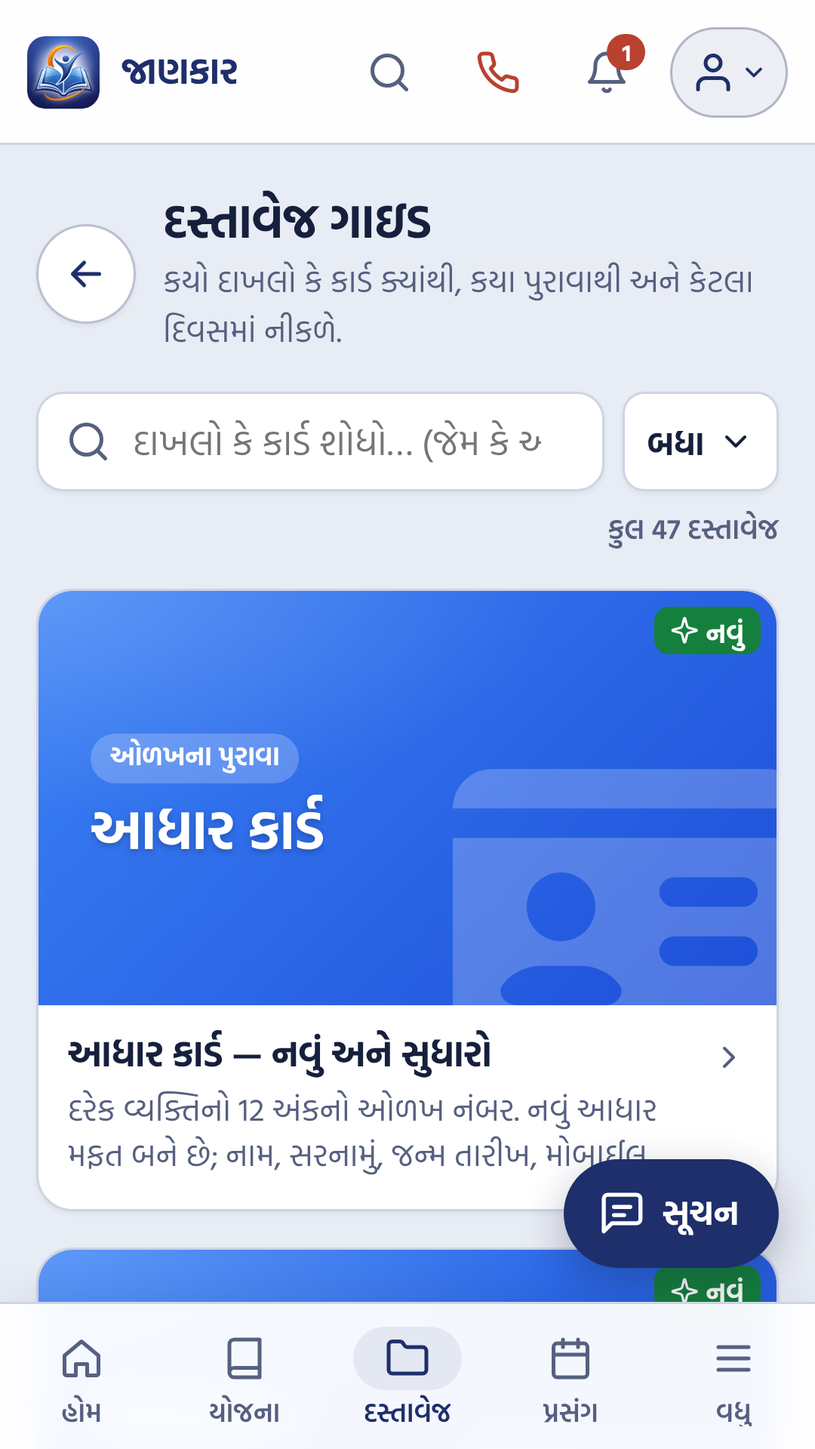
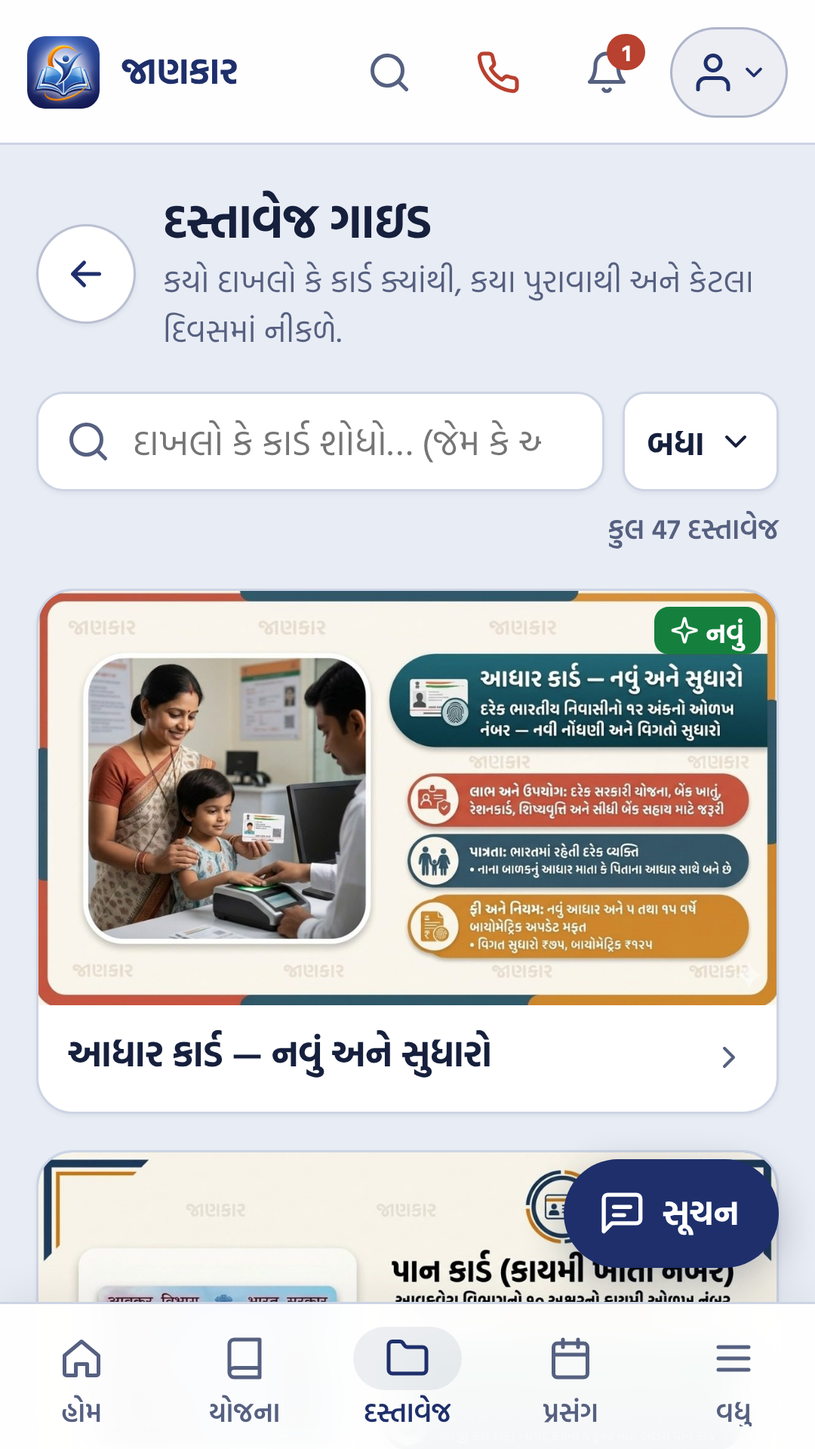
v0.16.0: remove WhatsApp number, plain WhatsApp text on desktop, name-only cards, new event page, store shots with photos
Claude-Session: https://claude.ai/code/session_01DUfmrChPFDEDRX9s3i5F71

diff --git a/privacy.html b/privacy.html
@@ -28,7 +28,7 @@
 </header>
 <main>
 <nav class="crumb" aria-label="તમે અહીં છો"><a href="/">જાણકાર</a> › <span>ગોપનીયતા નીતિ</span></nav><h1>ગોપનીયતા નીતિ</h1><p class="lead">અમલ તારીખ: 25/11/26</p>
-<article class="box info"><section><h2>ટૂંકમાં</h2><ul><li>તમારી પ્રોફાઇલ, સેવ કરેલું અને ✓ ચેકલિસ્ટ ફક્ત તમારા ફોનમાં રહે છે. અમારા સર્વર પર મોકલાતું નથી.</li><li>અમે આધાર નંબર, બેંક વિગત, OTP કે પાસવર્ડ ક્યારેય માંગતા નથી.</li><li>તમે જાતે &quot;સંપર્ક અને સૂચન&quot; માં મોકલો ત્યારે એ લખાણ, અને તમે લખો તો નામ અને મોબાઇલ નંબર, અમને મળે છે. એપમાં ભૂલ આવે તો તેની ટેકનિકલ નોંધ આપોઆપ આવે છે (નીચે વિગત).</li><li>જાહેરાત નથી. કેટલા લોકો કયું પેજ જુએ છે તેની ગણતરી Google Analytics થી થાય છે (નીચે વિગત). તમારી માહિતી કોઈને વેચતા નથી.</li></ul></section><section><h2>ફોનમાં શું સચવાય છે</h2><ul><li>પ્રોફાઇલમાં તમે જાતે ભરો તે: વર્ગ (જેમ કે ખેડૂત, વિદ્યાર્થી), ઉંમર, જાતિ, જિલ્લો, તાલુકો, વ્યવસાય અને આવક. બધું વૈકલ્પિક છે.</li><li>&quot;તમારા માટે યોજના શોધો&quot; ના જવાબ: તમે કોણ છો (વર્ગ), શું કરો છો, જાતિ, આવક, લિંગ, ગામ કે શહેર, BPL. બધા વૈકલ્પિક; પ્રોફાઇલ સાથે ફક્ત ફોનમાં, ક્યાંય મોકલાતા નથી.</li><li>સેવ કરેલાં કાર્ડ, પુરાવાનું ✓ ચેકલિસ્ટ, જોયેલાં કાર્ડ.</li><li>અક્ષરનું કદ, દેખાવ (લાઇટ / ડાર્ક) અને કયું વોટ્સએપ ખોલવું.</li></ul><p>આ બધું ફક્ત તમને લાગુ પડતી યોજના બતાવવા માટે ફોનમાં જ વપરાય છે.</p></section><section><h2>ઇન્ટરનેટ</h2><p>એપ યોજનાની માહિતી અમારી વેબસાઇટ પરથી અને ફોટા અમારી ફોટા સાચવવાની સેવા પરથી લાવે છે. દરેક વેબસાઇટની જેમ, સર્વર પર સામાન્ય ટેકનિકલ નોંધ (જેમ કે IP સરનામું અને સમય) થોડા સમય માટે રહી શકે છે. તેનો ઉપયોગ ફક્ત સેવા ચાલુ રાખવા અને સુરક્ષા માટે થાય છે.</p></section><section><h2>વપરાશની ગણતરી (Google Analytics)</h2><ul><li>શું જાય: કયું પેજ ખૂલ્યું (જેમ કે &quot;યોજના ગાઇડ&quot;), ક્યારે, ફોન / કમ્પ્યુટરનો પ્રકાર, બ્રાઉઝર, અંદાજે રાજ્ય / શહેર અને ક્યાંથી આવ્યા (જેમ કે વોટ્સએપ લિંક).</li><li>શું નથી જતું: નામ, મોબાઇલ નંબર, પ્રોફાઇલ, &quot;યોજના શોધો&quot; ના જવાબ, શોધમાં લખેલું કે સેવ કરેલું.</li><li>Google ફોનમાં એક કૂકી રાખે છે (એ જ ફોન ફરી આવ્યો તે ગણવા). જાહેરાત માટે વપરાતી Google ની સુવિધાઓ અમે બંધ રાખી છે.</li><li>શા માટે: કયાં પેજ કામનાં છે અને ક્યાં સુધારો જોઈએ તે જાણવા. Google ની નીતિ: policies.google.com/privacy</li></ul></section><section><h2>તમે મોકલો તે ભૂલ / સૂચન</h2><ul><li>શું જાય: તમે લખેલું લખાણ, &quot;ભૂલ&quot; કે &quot;સૂચન&quot;, કયા પેજ પરથી, અને ફોને પોતે બનાવેલો 8 અક્ષરનો રેન્ડમ નંબર (એક જ ફોનમાંથી વધારે સંદેશ રોકવા).</li><li>નામ અને મોબાઇલ નંબર: વૈકલ્પિક. તમે લખો તો જ જાય, ફક્ત તમને જવાબ આપવા માટે.</li><li>શું નથી જતું: ઈમેલ, પ્રોફાઇલ કે ફોનની બીજી કોઈ માહિતી.</li><li>ક્યાં જાય: અમારી KruPa Digital Hub વેબસાઇટના એડમિનમાં, સુરક્ષિત (https) રીતે. કોઈને વેચતા કે આપતા નથી.</li><li>શા માટે: એપની માહિતી સુધારવા અને જવાબ આપવા માટે જ. કામ પૂરું થાય પછી કાઢી નાખીએ છીએ.</li></ul><p>લખાણમાં તમારો આધાર કે બેંક નંબર જેવી ખાનગી માહિતી ન લખો.</p></section><section><h2>ભૂલની આપોઆપ નોંધ</h2><p>એપમાં કોઈ ટેકનિકલ ભૂલ આવે તો તેની નોંધ આપોઆપ અમને આવે છે: ભૂલનું લખાણ, કયું પેજ, એપનું વર્ઝન અને એ જ રેન્ડમ નંબર. તેમાં તમારી કોઈ અંગત માહિતી નથી હોતી. તેનો ઉપયોગ ફક્ત એપની ભૂલ સુધારવા માટે થાય છે.</p></section><section><h2>નોટિફિકેશન</h2><p>તમે પરવાનગી આપો તો જ, સેવ કરેલી યોજનાની છેલ્લી તારીખ નજીક આવે ત્યારે ફોનમાં યાદ અપાવીએ છીએ. પરવાનગી ફોનના સેટિંગમાંથી ગમે ત્યારે બંધ કરી શકો.</p></section><section><h2>પરવાનગી</h2><p>એપ કેમેરા, લોકેશન, સંપર્ક, માઇક કે ફાઇલની પરવાનગી માંગતી નથી.</p></section><section><h2>બહારની લિંક</h2><p>કાર્ડમાં સરકારી વેબસાઇટ અને વોટ્સએપની લિંક છે. તે ખોલો ત્યારે તેની પોતાની ગોપનીયતા નીતિ લાગુ પડે છે.</p></section><section><h2>બાળકો</h2><p>એપ 18 વર્ષ અને વધુ ઉંમરના લોકો માટે બનાવી છે. અમે બાળકો પાસેથી જાણીજોઈને કોઈ માહિતી લેતા નથી.</p></section><section><h2>માહિતી કાઢી નાખવી</h2><p>ઉપર જમણી બાજુનું મેનુ → &quot;પ્રોફાઇલ અને સેટિંગ&quot; → &quot;મારી બધી માહિતી ફોનમાંથી કાઢી નાખો&quot; દબાવો, અથવા એપ અનઇન્સ્ટોલ કરો. તમે મોકલેલું ભૂલ / સૂચન કાઢી નાખવું હોય તો કયા દિવસે શું લખ્યું હતું તે અમને જણાવો (વોટ્સએપ <a href="https://wa.me/917777919128">7777919128</a> · ઈમેલ <a href="mailto:krupadigitalhub@gmail.com">krupadigitalhub@gmail.com</a>). 7 દિવસમાં કાઢી નાખીશું.</p></section><section><h2>ફેરફાર</h2><p>આ નીતિ બદલાય તો આ જ પેજ પર નવી તારીખ સાથે મૂકીશું.</p></section><section><h2>સંપર્ક</h2><p>વોટ્સએપ <a href="https://wa.me/917777919128">7777919128</a> · ઈમેલ <a href="mailto:krupadigitalhub@gmail.com">krupadigitalhub@gmail.com</a></p></section></article>
+<article class="box info"><section><h2>ટૂંકમાં</h2><ul><li>તમારી પ્રોફાઇલ, સેવ કરેલું અને ✓ ચેકલિસ્ટ ફક્ત તમારા ફોનમાં રહે છે. અમારા સર્વર પર મોકલાતું નથી.</li><li>અમે આધાર નંબર, બેંક વિગત, OTP કે પાસવર્ડ ક્યારેય માંગતા નથી.</li><li>તમે જાતે &quot;સંપર્ક અને સૂચન&quot; માં મોકલો ત્યારે એ લખાણ, અને તમે લખો તો નામ અને મોબાઇલ નંબર, અમને મળે છે. એપમાં ભૂલ આવે તો તેની ટેકનિકલ નોંધ આપોઆપ આવે છે (નીચે વિગત).</li><li>જાહેરાત નથી. કેટલા લોકો કયું પેજ જુએ છે તેની ગણતરી Google Analytics થી થાય છે (નીચે વિગત). તમારી માહિતી કોઈને વેચતા નથી.</li></ul></section><section><h2>ફોનમાં શું સચવાય છે</h2><ul><li>પ્રોફાઇલમાં તમે જાતે ભરો તે: વર્ગ (જેમ કે ખેડૂત, વિદ્યાર્થી), ઉંમર, જાતિ, જિલ્લો, તાલુકો, વ્યવસાય અને આવક. બધું વૈકલ્પિક છે.</li><li>&quot;તમારા માટે યોજના શોધો&quot; ના જવાબ: તમે કોણ છો (વર્ગ), શું કરો છો, જાતિ, આવક, લિંગ, ગામ કે શહેર, BPL. બધા વૈકલ્પિક; પ્રોફાઇલ સાથે ફક્ત ફોનમાં, ક્યાંય મોકલાતા નથી.</li><li>સેવ કરેલાં કાર્ડ, પુરાવાનું ✓ ચેકલિસ્ટ, જોયેલાં કાર્ડ.</li><li>અક્ષરનું કદ, દેખાવ (લાઇટ / ડાર્ક) અને કયું વોટ્સએપ ખોલવું.</li></ul><p>આ બધું ફક્ત તમને લાગુ પડતી યોજના બતાવવા માટે ફોનમાં જ વપરાય છે.</p></section><section><h2>ઇન્ટરનેટ</h2><p>એપ યોજનાની માહિતી અમારી વેબસાઇટ પરથી અને ફોટા અમારી ફોટા સાચવવાની સેવા પરથી લાવે છે. દરેક વેબસાઇટની જેમ, સર્વર પર સામાન્ય ટેકનિકલ નોંધ (જેમ કે IP સરનામું અને સમય) થોડા સમય માટે રહી શકે છે. તેનો ઉપયોગ ફક્ત સેવા ચાલુ રાખવા અને સુરક્ષા માટે થાય છે.</p></section><section><h2>વપરાશની ગણતરી (Google Analytics)</h2><ul><li>શું જાય: કયું પેજ ખૂલ્યું (જેમ કે &quot;યોજના ગાઇડ&quot;), ક્યારે, ફોન / કમ્પ્યુટરનો પ્રકાર, બ્રાઉઝર, અંદાજે રાજ્ય / શહેર અને ક્યાંથી આવ્યા (જેમ કે વોટ્સએપ લિંક).</li><li>શું નથી જતું: નામ, મોબાઇલ નંબર, પ્રોફાઇલ, &quot;યોજના શોધો&quot; ના જવાબ, શોધમાં લખેલું કે સેવ કરેલું.</li><li>Google ફોનમાં એક કૂકી રાખે છે (એ જ ફોન ફરી આવ્યો તે ગણવા). જાહેરાત માટે વપરાતી Google ની સુવિધાઓ અમે બંધ રાખી છે.</li><li>શા માટે: કયાં પેજ કામનાં છે અને ક્યાં સુધારો જોઈએ તે જાણવા. Google ની નીતિ: policies.google.com/privacy</li></ul></section><section><h2>તમે મોકલો તે ભૂલ / સૂચન</h2><ul><li>શું જાય: તમે લખેલું લખાણ, &quot;ભૂલ&quot; કે &quot;સૂચન&quot;, કયા પેજ પરથી, અને ફોને પોતે બનાવેલો 8 અક્ષરનો રેન્ડમ નંબર (એક જ ફોનમાંથી વધારે સંદેશ રોકવા).</li><li>નામ અને મોબાઇલ નંબર: વૈકલ્પિક. તમે લખો તો જ જાય, ફક્ત તમને જવાબ આપવા માટે.</li><li>શું નથી જતું: ઈમેલ, પ્રોફાઇલ કે ફોનની બીજી કોઈ માહિતી.</li><li>ક્યાં જાય: અમારી KruPa Digital Hub વેબસાઇટના એડમિનમાં, સુરક્ષિત (https) રીતે. કોઈને વેચતા કે આપતા નથી.</li><li>શા માટે: એપની માહિતી સુધારવા અને જવાબ આપવા માટે જ. કામ પૂરું થાય પછી કાઢી નાખીએ છીએ.</li></ul><p>લખાણમાં તમારો આધાર કે બેંક નંબર જેવી ખાનગી માહિતી ન લખો.</p></section><section><h2>ભૂલની આપોઆપ નોંધ</h2><p>એપમાં કોઈ ટેકનિકલ ભૂલ આવે તો તેની નોંધ આપોઆપ અમને આવે છે: ભૂલનું લખાણ, કયું પેજ, એપનું વર્ઝન અને એ જ રેન્ડમ નંબર. તેમાં તમારી કોઈ અંગત માહિતી નથી હોતી. તેનો ઉપયોગ ફક્ત એપની ભૂલ સુધારવા માટે થાય છે.</p></section><section><h2>નોટિફિકેશન</h2><p>તમે પરવાનગી આપો તો જ, સેવ કરેલી યોજનાની છેલ્લી તારીખ નજીક આવે ત્યારે ફોનમાં યાદ અપાવીએ છીએ. પરવાનગી ફોનના સેટિંગમાંથી ગમે ત્યારે બંધ કરી શકો.</p></section><section><h2>પરવાનગી</h2><p>એપ કેમેરા, લોકેશન, સંપર્ક, માઇક કે ફાઇલની પરવાનગી માંગતી નથી.</p></section><section><h2>બહારની લિંક</h2><p>કાર્ડમાં સરકારી વેબસાઇટ અને વોટ્સએપની લિંક છે. તે ખોલો ત્યારે તેની પોતાની ગોપનીયતા નીતિ લાગુ પડે છે.</p></section><section><h2>બાળકો</h2><p>એપ 18 વર્ષ અને વધુ ઉંમરના લોકો માટે બનાવી છે. અમે બાળકો પાસેથી જાણીજોઈને કોઈ માહિતી લેતા નથી.</p></section><section><h2>માહિતી કાઢી નાખવી</h2><p>ઉપર જમણી બાજુનું મેનુ → &quot;પ્રોફાઇલ અને સેટિંગ&quot; → &quot;મારી બધી માહિતી ફોનમાંથી કાઢી નાખો&quot; દબાવો, અથવા એપ અનઇન્સ્ટોલ કરો. તમે મોકલેલું ભૂલ / સૂચન કાઢી નાખવું હોય તો કયા દિવસે શું લખ્યું હતું તે અમને જણાવો (ઈમેલ <a href="mailto:krupadigitalhub@gmail.com">krupadigitalhub@gmail.com</a>). 7 દિવસમાં કાઢી નાખીશું.</p></section><section><h2>ફેરફાર</h2><p>આ નીતિ બદલાય તો આ જ પેજ પર નવી તારીખ સાથે મૂકીશું.</p></section><section><h2>સંપર્ક</h2><p>ઈમેલ <a href="mailto:krupadigitalhub@gmail.com">krupadigitalhub@gmail.com</a></p></section></article>
 </main>
 <footer class="foot">
   <nav aria-label="માહિતી"><a href="/yojana/">યોજના</a><a href="/dastavej/">દસ્તાવેજ</a><a href="/prasang/">જીવનના પ્રસંગ</a><a href="/about.html">અમારા વિશે</a><a href="/privacy.html">ગોપનીયતા નીતિ</a><a href="/terms.html">નિયમો અને શરતો</a><a href="/disclaimer.html">ડિસ્ક્લેમર</a><a href="/dmca.html">કોપીરાઇટ નીતિ (DMCA)</a><a href="/#/contact">સંપર્ક</a></nav>

diff --git a/js/app.js b/js/app.js
@@ -92,7 +92,9 @@ async function loadData() {
     state.dhyan = (dh.items || []).filter((x) => x && x.text && DHYAN_TYPES[x.type]);
     state.essentials = { all: es.all || [], roles: es.roles || {} };
     state.schemes = (s.schemes || []).map(calmCard);
-    state.updates = u.updates || [];
+    // યુઝર 26/11/26: "આજે શું નવું" ફક્ત છેલ્લા 30 દિવસની પોસ્ટ; કંઈ ન હોય તો 🔔 દેખાય જ નહીં.
+    const since = new Date(Date.now() - 30 * 864e5).toISOString().slice(0, 10);
+    state.updates = (u.updates || []).filter((x) => x && x.date && x.date >= since);
     state.docs = (d.documents || []).map(calmCard);
     state.docGroups = d.groups || [];
     state.events = (ev.events || []).map(calm);
@@ -214,15 +216,14 @@ function tcard(href, th, title, line, extra = '') {
   return `<li><a class="tcard" href="${href}">${th}<span class="tc-body"><span class="tc-text"><span class="tc-title">${esc(title)}</span>${line ? `<span class="tc-line">${esc(line)}</span>` : ''}${extra}</span>${icon('chev', 'ic-sm chev')}</span></a></li>`;
 }
 
+// યુઝર 26/11/26: યોજના / દસ્તાવેજ / પ્રસંગના કાર્ડમાં ફોટા નીચે ફક્ત નામ (નામ + વિગત બંને હોય તો નામ તરત ધ્યાનમાં ન આવે)
 function itemCard(s) {
-  const line = isDoc(s) ? s.summary || (groupOf(s.group) || {}).label || '' : s.summary;
-  return tcard(itemHref(s), itemThumb(s), s.title, line);
+  return tcard(itemHref(s), itemThumb(s), s.title, '');
 }
 
 function eventCard(e, mine) {
-  const n = store.getDocs('event:' + e.id).filter((i) => i < e.items.length).length;
   const badges = mine ? `<span class="thb thb-mine">તમારા માટે</span>` : '';
-  return tcard(`#/event/${e.id}`, thumb({ img: e.image, tone: 'blue', emo: e.icon, name: e.title, badges }), e.title, n ? `${n} / ${e.items.length} થઈ ગયું` : `${e.items.length} કામ`);
+  return tcard(`#/event/${e.id}`, thumb({ img: e.image, tone: 'blue', emo: e.icon, name: e.title, badges }), e.title, '');
 }
 
 // યુઝર 25/11/26 (3): નંબરનું પણ ફોટો + વિગત પેજ (#/help/<નંબર>). કાર્ડ → વિગત; "ફોન કરો" સીધો ફોન.
@@ -801,29 +802,44 @@ function eventShareText(e) {
   ]);
 }
 
+// પ્રગતિ ફક્ત "કરવાનાં કામ" ની (સહાય પર ✓ નથી)
 function eventProgress(e, ready) {
-  const n = ready.filter((i) => i < e.items.length).length;
-  return n === e.items.length ? '✓ બધું થઈ ગયું' : `${n} / ${e.items.length} થઈ ગયું`;
+  const tasks = e.items.map((it, i) => [it, i]).filter(([it]) => it.type !== 'scheme');
+  const n = tasks.filter(([, i]) => ready.includes(i)).length;
+  return n === tasks.length ? '✓ બધાં કામ થઈ ગયાં' : `${n} / ${tasks.length} થઈ ગયાં`;
 }
 
+// પ્રસંગ પેજ (યુઝર 26/11/26: "કરવાનાં કામ" અને "સહાય" એક સરખાં લાગતાં, "ભૂલ / સૂચન" બરાબર ન હતું):
+// ડાબે કામનું ✓ લિસ્ટ (એક ખાનામાં, 1-2-3), જમણે સહાય = લીલું tile + નામ + એક લીટી + › (✓ નહીં), નીચે "કંઈ ખોટું લાગ્યું?" ખાનું.
 function viewEvent(id) {
   const e = state.events.find((x) => x.id === id);
   if (!e) return `<div class="empty">આ પ્રસંગ મળ્યો નહીં. <a href="#/events">બધા પ્રસંગ</a></div>`;
   const key = 'event:' + e.id;
   const ready = store.getDocs(key);
-  const row = ([it, i]) => {
+  const task = ([it, i], n) => {
     const linked = it.itemId ? findItem(it.itemId) : null;
     const done = ready.includes(i);
+    const text = `<b>${esc(eventItemTitle(it))}</b>${it.note ? `<span class="muted">${esc(it.note)}</span>` : ''}`;
     return `
       <li class="ev-item ${done ? 'done' : ''}">
         <button type="button" class="ev-tick" data-action="event-tick" data-id="${key}" data-i="${i}" aria-pressed="${done}" aria-label="${esc(eventItemTitle(it))}: થઈ ગયું"><span class="box"></span></button>
+        <span class="ev-n" aria-hidden="true">${n + 1}</span>
         ${linked
-          ? `<a class="ev-body" href="${itemHref(linked)}"><b>${esc(eventItemTitle(it))}</b>${it.note ? `<span class="muted">${esc(it.note)}</span>` : ''}<span class="ev-open">વિગત અને પુરાવા ${icon('chev', 'ic-sm')}</span></a>`
-          : `<button type="button" class="ev-body" data-action="event-tick" data-id="${key}" data-i="${i}" tabindex="-1" aria-hidden="true"><b>${esc(eventItemTitle(it))}</b>${it.note ? `<span class="muted">${esc(it.note)}</span>` : ''}</button>`}
+          ? `<a class="ev-body" href="${itemHref(linked)}">${text}<span class="ev-open">વિગત અને પુરાવા ${icon('chev', 'ic-sm')}</span></a>`
+          : `<button type="button" class="ev-body" data-action="event-tick" data-id="${key}" data-i="${i}" tabindex="-1" aria-hidden="true">${text}</button>`}
       </li>`;
   };
+  const help = ([it]) => {
+    const linked = it.itemId ? findItem(it.itemId) : null;
+    const line = it.note || (linked && linked.summary) || '';
+    const amt = linked ? rupee(linked) : '';
+    const inner = `<span class="eh-tile">${icon('gift')}</span>
+      <span class="eh-text"><b>${esc(eventItemTitle(it))}</b>${line ? `<span class="muted">${esc(line)}</span>` : ''}</span>
+      ${amt ? `<span class="eh-amt">${esc(amt)}</span>` : ''}${linked ? icon('chev', 'ic-sm chev') : ''}`;
+    return `<li>${linked ? `<a class="ev-help" href="${itemHref(linked)}">${inner}</a>` : `<div class="ev-help">${inner}</div>`}</li>`;
+  };
   const pairs = e.items.map((it, i) => [it, i]);
-  const docs = pairs.filter(([it]) => it.type !== 'scheme');
+  const tasks = pairs.filter(([it]) => it.type !== 'scheme');
   const helps = pairs.filter(([it]) => it.type === 'scheme');
   return `
     <nav class="crumb"><a class="back-btn" href="#/events" data-action="back" aria-label="પાછા">${icon('arrow')}</a><a href="#/events">જીવનના પ્રસંગ</a></nav>
@@ -835,14 +851,23 @@ function viewEvent(id) {
         </div>
       </div>
     </div>
-    <p class="progress mt" id="event-progress">${eventProgress(e, ready)}</p>
-    <div class="parts one" style="margin-top:1rem">
-      <div class="parts-main">
-        ${docs.length ? `<section class="part"><h2><span class="sq">${icon('forms')}</span>કરવાનાં કામ / દસ્તાવેજ</h2><ul class="ev-list">${docs.map(row).join('')}</ul></section>` : ''}
-        ${helps.length ? `<section class="part"><h2><span class="sq">${icon('gift')}</span>મળી શકે એવી સહાય</h2><ul class="ev-list">${helps.map(row).join('')}</ul></section>` : ''}
+    <div class="ev-grid">
+      ${tasks.length ? `<section class="card ev-box ev-tasks">
+        <h2 class="ev-h"><span class="sq">${icon('list')}</span><span>કરવાનાં કામ / દસ્તાવેજ<small>થઈ જાય એટલે ☐ પર ટેપ કરો</small></span><span class="ev-prog" id="event-progress">${eventProgress(e, ready)}</span></h2>
+        <ul class="ev-list">${tasks.map(task).join('')}</ul>
+      </section>` : ''}
+      <div class="ev-side">
+        ${helps.length ? `<section class="card ev-box ev-helps">
+          <h2 class="ev-h"><span class="sq">${icon('gift')}</span><span>મળી શકે એવી સહાય<small>નામ પર ટેપ કરો: કોને મળે, લાભ અને પુરાવા</small></span></h2>
+          <ul class="ev-hlist">${helps.map(help).join('')}</ul>
+        </section>` : ''}
+        <div class="card side-box fb-box">
+          <h3>${icon('message')}કંઈ ખોટું કે ખૂટતું લાગ્યું?</h3>
+          <p class="small muted">આ પ્રસંગમાં કોઈ કામ, દસ્તાવેજ કે સહાય ખૂટતી હોય કે ખોટી હોય — અમને જણાવો. ચકાસીને સુધારીશું.</p>
+          <a class="btn btn-primary btn-block" href="#/contact?event=${encodeURIComponent(e.id)}">${icon('message')}ભૂલ / સૂચન જણાવો</a>
+        </div>
       </div>
-    </div>
-    <p class="mt"><a class="btn" href="#/contact?event=${encodeURIComponent(e.id)}">${icon('message')}ભૂલ / સૂચન જણાવો</a></p>`;
+    </div>`;
 }
 
 // વોટ્સએપ સંદેશ (યુઝર 20/11/26: ગોઠવણી બરાબર ન હતી): એક ખાનું એક લીટી, ખાલી ખાનું નહીં,
@@ -1490,6 +1515,7 @@ function renderBell() {
   const b = document.getElementById('bell-badge');
   b.textContent = n > 9 ? '9+' : String(n);
   b.hidden = !n;
+  document.getElementById('bell').hidden = !state.updates.length;
   document.getElementById('bell').setAttribute('aria-label', n ? `આજે શું નવું: ${n}` : 'આજે શું નવું');
 }
 

diff --git a/about.html b/about.html
@@ -28,7 +28,7 @@
 </header>
 <main>
 <nav class="crumb" aria-label="તમે અહીં છો"><a href="/">જાણકાર</a> › <span>અમારા વિશે</span></nav><h1>અમારા વિશે</h1><p class="lead">યોજના, સહાય અને દાખલાની માહિતી, સરળ ગુજરાતીમાં.</p>
-<article class="box info"><section><h2>જાણકાર શું છે</h2><p>સરકારી યોજના, સહાય અને દાખલાની માહિતી સરળ ગુજરાતીમાં આપતી મફત એપ. કોને મળે, કેટલો લાભ, કયા પુરાવા જોઈએ અને સત્તાવાર લિંક, બધું એક જ જગ્યાએ.</p></section><section><h2>કોના માટે</h2><p>ખેડૂત, વિદ્યાર્થી, મહિલા, વડીલ, દિવ્યાંગ, યુવાન, વેપારી અને ગામ કે શહેરના દરેક નાગરિક માટે.</p></section><section><h2>એપમાં શું છે</h2><ul><li>યોજના ગાઇડ: કોને મળે, કેટલો લાભ, કયા પુરાવા અને સત્તાવાર લિંક.</li><li>દસ્તાવેજ ગાઇડ: આવક, જાતિ, આધાર જેવા દાખલા શેમાં કામ આવે અને કયા પુરાવા જોઈએ.</li><li>જીવનના પ્રસંગ: જન્મ, લગ્ન, ઘડપણ જેવા પ્રસંગે શું કરવું તેનું લિસ્ટ.</li><li>ફરજિયાત દસ્તાવેજ: દરેક પાસે હોવા જોઈએ એવા દસ્તાવેજનું ✓ લિસ્ટ.</li><li>તમારા માટે યોજના શોધો: તમે કોણ છો, શું કરો છો, આવક જેવા થોડા જવાબ પરથી લાગુ પડી શકે એવી યોજના.</li><li>જરૂરી ફોન નંબર: ઇમરજન્સી, ફ્રોડ, મહિલા, બાળક, વડીલ, ખેતી — દરેક નંબર ક્યારે કામ આવે તેની વિગત.</li><li>ધ્યાન રાખો: ફ્રોડ, સામાન્ય ભૂલો અને જરૂરી સૂચના.</li><li>સેવ કરો: છેલ્લી તારીખ પહેલાં યાદ.</li><li>વોટ્સએપ પર મોકલો: કોઈ પણ માહિતી એક ટેપમાં.</li></ul></section><section><h2>માહિતી ક્યાંથી</h2><p>સરકારી વેબસાઇટ, સરકારી ઠરાવ અને સત્તાવાર જાહેરાત વાંચીને, આપણા સરળ શબ્દોમાં. દરેક કાર્ડમાં &quot;સ્રોત&quot; ભાગમાં મૂળ સરકારી લિંક છે.</p></section><section><h2>સરકારી એપ નથી</h2><p>જાણકાર ખાનગી માહિતી એપ છે. કોઈ સરકારી વિભાગ કે સંસ્થાની એપ નથી અને સરકાર સાથે જોડાયેલી નથી. અરજી હંમેશાં સત્તાવાર સાઇટ પર કે સરકારી કચેરીમાં જ કરો.</p></section><section><h2>પ્રકાશક</h2><p>KruPa Digital Hub (krupadigitalhub.in).</p></section><section><h2>સંપર્ક</h2><p>વોટ્સએપ <a href="https://wa.me/917777919128">7777919128</a> · ઈમેલ <a href="mailto:krupadigitalhub@gmail.com">krupadigitalhub@gmail.com</a></p></section></article>
+<article class="box info"><section><h2>જાણકાર શું છે</h2><p>સરકારી યોજના, સહાય અને દાખલાની માહિતી સરળ ગુજરાતીમાં આપતી મફત એપ. કોને મળે, કેટલો લાભ, કયા પુરાવા જોઈએ અને સત્તાવાર લિંક, બધું એક જ જગ્યાએ.</p></section><section><h2>કોના માટે</h2><p>ખેડૂત, વિદ્યાર્થી, મહિલા, વડીલ, દિવ્યાંગ, યુવાન, વેપારી અને ગામ કે શહેરના દરેક નાગરિક માટે.</p></section><section><h2>એપમાં શું છે</h2><ul><li>યોજના ગાઇડ: કોને મળે, કેટલો લાભ, કયા પુરાવા અને સત્તાવાર લિંક.</li><li>દસ્તાવેજ ગાઇડ: આવક, જાતિ, આધાર જેવા દાખલા શેમાં કામ આવે અને કયા પુરાવા જોઈએ.</li><li>જીવનના પ્રસંગ: જન્મ, લગ્ન, ઘડપણ જેવા પ્રસંગે શું કરવું તેનું લિસ્ટ.</li><li>ફરજિયાત દસ્તાવેજ: દરેક પાસે હોવા જોઈએ એવા દસ્તાવેજનું ✓ લિસ્ટ.</li><li>તમારા માટે યોજના શોધો: તમે કોણ છો, શું કરો છો, આવક જેવા થોડા જવાબ પરથી લાગુ પડી શકે એવી યોજના.</li><li>જરૂરી ફોન નંબર: ઇમરજન્સી, ફ્રોડ, મહિલા, બાળક, વડીલ, ખેતી — દરેક નંબર ક્યારે કામ આવે તેની વિગત.</li><li>ધ્યાન રાખો: ફ્રોડ, સામાન્ય ભૂલો અને જરૂરી સૂચના.</li><li>સેવ કરો: છેલ્લી તારીખ પહેલાં યાદ.</li><li>વોટ્સએપ પર મોકલો: કોઈ પણ માહિતી એક ટેપમાં.</li></ul></section><section><h2>માહિતી ક્યાંથી</h2><p>સરકારી વેબસાઇટ, સરકારી ઠરાવ અને સત્તાવાર જાહેરાત વાંચીને, આપણા સરળ શબ્દોમાં. દરેક કાર્ડમાં &quot;સ્રોત&quot; ભાગમાં મૂળ સરકારી લિંક છે.</p></section><section><h2>સરકારી એપ નથી</h2><p>જાણકાર ખાનગી માહિતી એપ છે. કોઈ સરકારી વિભાગ કે સંસ્થાની એપ નથી અને સરકાર સાથે જોડાયેલી નથી. અરજી હંમેશાં સત્તાવાર સાઇટ પર કે સરકારી કચેરીમાં જ કરો.</p></section><section><h2>પ્રકાશક</h2><p>KruPa Digital Hub (krupadigitalhub.in).</p></section><section><h2>સંપર્ક</h2><p>ઈમેલ <a href="mailto:krupadigitalhub@gmail.com">krupadigitalhub@gmail.com</a></p></section></article>
 </main>
 <footer class="foot">
   <nav aria-label="માહિતી"><a href="/yojana/">યોજના</a><a href="/dastavej/">દસ્તાવેજ</a><a href="/prasang/">જીવનના પ્રસંગ</a><a href="/about.html">અમારા વિશે</a><a href="/privacy.html">ગોપનીયતા નીતિ</a><a href="/terms.html">નિયમો અને શરતો</a><a href="/disclaimer.html">ડિસ્ક્લેમર</a><a href="/dmca.html">કોપીરાઇટ નીતિ (DMCA)</a><a href="/#/contact">સંપર્ક</a></nav>

diff --git a/disclaimer.html b/disclaimer.html
@@ -28,7 +28,7 @@
 </header>
 <main>
 <nav class="crumb" aria-label="તમે અહીં છો"><a href="/">જાણકાર</a> › <span>ડિસ્ક્લેમર</span></nav><h1>ડિસ્ક્લેમર</h1><p class="lead">અમલ તારીખ: 25/11/26</p>
-<article class="box info"><section><h2>સરકારી એપ નથી</h2><p>જાણકાર ખાનગી માહિતી એપ છે. તે ભારત સરકાર, ગુજરાત સરકાર કે કોઈ સરકારી વિભાગ સાથે જોડાયેલી નથી અને તેમના વતી કામ કરતી નથી.</p></section><section><h2>માહિતીનો સ્રોત</h2><p>માહિતી સરકારી વેબસાઇટ, સરકારી ઠરાવ અને સત્તાવાર જાહેરાત પરથી સરળ ભાષામાં લખી છે. દરેક કાર્ડના &quot;સ્રોત&quot; ભાગમાં મૂળ લિંક છે.</p></section><section><h2>ખાતરી</h2><p>અમે માહિતી સાચી અને નવી રાખવા પૂરો પ્રયત્ન કરીએ છીએ, પણ સરકાર નિયમ, ફી કે તારીખ બદલી શકે છે. અંતિમ અને સાચી માહિતી માટે હંમેશાં સત્તાવાર સાઇટ કે કચેરી માન્ય ગણવી.</p></section><section><h2>લાભની ખાતરી નહીં</h2><p>કોઈ યોજનાનો લાભ મળશે જ તેની ખાતરી અમે આપતા નથી. એ નિર્ણય ફક્ત સરકારી વિભાગ કરે છે.</p></section><section><h2>જવાબદારી</h2><p>ખોટી, અધૂરી કે જૂની માહિતીથી કે બહારની વેબસાઇટથી થતા કોઈ નુકસાનની જવાબદારી અમારી નથી.</p></section><section><h2>ભૂલ દેખાય તો</h2><p>દરેક કાર્ડમાં &quot;ભૂલ / સૂચન જણાવો&quot; બટન છે, અથવા વોટ્સએપ <a href="https://wa.me/917777919128">7777919128</a> · ઈમેલ <a href="mailto:krupadigitalhub@gmail.com">krupadigitalhub@gmail.com</a>. અમે ચકાસીને સુધારીશું.</p></section></article>
+<article class="box info"><section><h2>સરકારી એપ નથી</h2><p>જાણકાર ખાનગી માહિતી એપ છે. તે ભારત સરકાર, ગુજરાત સરકાર કે કોઈ સરકારી વિભાગ સાથે જોડાયેલી નથી અને તેમના વતી કામ કરતી નથી.</p></section><section><h2>માહિતીનો સ્રોત</h2><p>માહિતી સરકારી વેબસાઇટ, સરકારી ઠરાવ અને સત્તાવાર જાહેરાત પરથી સરળ ભાષામાં લખી છે. દરેક કાર્ડના &quot;સ્રોત&quot; ભાગમાં મૂળ લિંક છે.</p></section><section><h2>ખાતરી</h2><p>અમે માહિતી સાચી અને નવી રાખવા પૂરો પ્રયત્ન કરીએ છીએ, પણ સરકાર નિયમ, ફી કે તારીખ બદલી શકે છે. અંતિમ અને સાચી માહિતી માટે હંમેશાં સત્તાવાર સાઇટ કે કચેરી માન્ય ગણવી.</p></section><section><h2>લાભની ખાતરી નહીં</h2><p>કોઈ યોજનાનો લાભ મળશે જ તેની ખાતરી અમે આપતા નથી. એ નિર્ણય ફક્ત સરકારી વિભાગ કરે છે.</p></section><section><h2>જવાબદારી</h2><p>ખોટી, અધૂરી કે જૂની માહિતીથી કે બહારની વેબસાઇટથી થતા કોઈ નુકસાનની જવાબદારી અમારી નથી.</p></section><section><h2>ભૂલ દેખાય તો</h2><p>દરેક કાર્ડમાં &quot;ભૂલ / સૂચન જણાવો&quot; બટન છે, અથવા ઈમેલ <a href="mailto:krupadigitalhub@gmail.com">krupadigitalhub@gmail.com</a>. અમે ચકાસીને સુધારીશું.</p></section></article>
 </main>
 <footer class="foot">
   <nav aria-label="માહિતી"><a href="/yojana/">યોજના</a><a href="/dastavej/">દસ્તાવેજ</a><a href="/prasang/">જીવનના પ્રસંગ</a><a href="/about.html">અમારા વિશે</a><a href="/privacy.html">ગોપનીયતા નીતિ</a><a href="/terms.html">નિયમો અને શરતો</a><a href="/disclaimer.html">ડિસ્ક્લેમર</a><a href="/dmca.html">કોપીરાઇટ નીતિ (DMCA)</a><a href="/#/contact">સંપર્ક</a></nav>

diff --git a/terms.html b/terms.html
@@ -28,7 +28,7 @@
 </header>
 <main>
 <nav class="crumb" aria-label="તમે અહીં છો"><a href="/">જાણકાર</a> › <span>નિયમો અને શરતો</span></nav><h1>નિયમો અને શરતો</h1><p class="lead">અમલ તારીખ: 25/11/26</p>
-<article class="box info"><section><h2>આ એપ શું છે</h2><p>જાણકાર ખાનગી માહિતી એપ છે. તે કોઈ સરકારી વિભાગ, કચેરી કે સંસ્થાની સત્તાવાર એપ નથી. એપ સરકાર વતી કોઈ સેવા, અરજી કે ચુકવણી કરતી નથી.</p></section><section><h2>ખાતરી કરવી જરૂરી</h2><ul><li>યોજનાના નિયમ, ફી, તારીખ અને પુરાવા સરકાર બદલી શકે છે. અરજી પહેલાં સત્તાવાર સાઇટ કે કચેરીમાં ખાતરી કરો.</li></ul></section><section><h2>એપ વાપરવી</h2><p>એપ મફત છે. માહિતી પોતાના અને બીજાના ઉપયોગ માટે વોટ્સએપ પર મોકલી શકો છો. એપનું લખાણ, ફોટા કે ડિઝાઇન વેચાણ માટે કે બીજી એપ / વેબસાઇટમાં નકલ કરવાં નહીં.</p></section><section><h2>ફ્રોડથી સાવધાન</h2><p>અમે ક્યારેય પૈસા, OTP, PIN કે આધાર નંબર માંગતા નથી. જાણકાર ના નામે કોઈ માંગે તો તે ફ્રોડ છે. તરત 1930 પર ફોન કરો.</p></section><section><h2>જવાબદારી</h2><p>વધુ વિગત &quot;ડિસ્ક્લેમર&quot; પેજમાં છે. એપ વાપરો એટલે આ નિયમો અને ડિસ્ક્લેમર માન્ય ગણાશે.</p></section><section><h2>ફેરફાર</h2><p>નિયમો બદલાય તો આ જ પેજ પર નવી તારીખ સાથે મૂકીશું.</p></section><section><h2>સંપર્ક</h2><p>વોટ્સએપ <a href="https://wa.me/917777919128">7777919128</a> · ઈમેલ <a href="mailto:krupadigitalhub@gmail.com">krupadigitalhub@gmail.com</a></p></section></article>
+<article class="box info"><section><h2>આ એપ શું છે</h2><p>જાણકાર ખાનગી માહિતી એપ છે. તે કોઈ સરકારી વિભાગ, કચેરી કે સંસ્થાની સત્તાવાર એપ નથી. એપ સરકાર વતી કોઈ સેવા, અરજી કે ચુકવણી કરતી નથી.</p></section><section><h2>ખાતરી કરવી જરૂરી</h2><ul><li>યોજનાના નિયમ, ફી, તારીખ અને પુરાવા સરકાર બદલી શકે છે. અરજી પહેલાં સત્તાવાર સાઇટ કે કચેરીમાં ખાતરી કરો.</li></ul></section><section><h2>એપ વાપરવી</h2><p>એપ મફત છે. માહિતી પોતાના અને બીજાના ઉપયોગ માટે વોટ્સએપ પર મોકલી શકો છો. એપનું લખાણ, ફોટા કે ડિઝાઇન વેચાણ માટે કે બીજી એપ / વેબસાઇટમાં નકલ કરવાં નહીં.</p></section><section><h2>ફ્રોડથી સાવધાન</h2><p>અમે ક્યારેય પૈસા, OTP, PIN કે આધાર નંબર માંગતા નથી. જાણકાર ના નામે કોઈ માંગે તો તે ફ્રોડ છે. તરત 1930 પર ફોન કરો.</p></section><section><h2>જવાબદારી</h2><p>વધુ વિગત &quot;ડિસ્ક્લેમર&quot; પેજમાં છે. એપ વાપરો એટલે આ નિયમો અને ડિસ્ક્લેમર માન્ય ગણાશે.</p></section><section><h2>ફેરફાર</h2><p>નિયમો બદલાય તો આ જ પેજ પર નવી તારીખ સાથે મૂકીશું.</p></section><section><h2>સંપર્ક</h2><p>ઈમેલ <a href="mailto:krupadigitalhub@gmail.com">krupadigitalhub@gmail.com</a></p></section></article>
 </main>
 <footer class="foot">
   <nav aria-label="માહિતી"><a href="/yojana/">યોજના</a><a href="/dastavej/">દસ્તાવેજ</a><a href="/prasang/">જીવનના પ્રસંગ</a><a href="/about.html">અમારા વિશે</a><a href="/privacy.html">ગોપનીયતા નીતિ</a><a href="/terms.html">નિયમો અને શરતો</a><a href="/disclaimer.html">ડિસ્ક્લેમર</a><a href="/dmca.html">કોપીરાઇટ નીતિ (DMCA)</a><a href="/#/contact">સંપર્ક</a></nav>

diff --git a/dmca.html b/dmca.html
@@ -28,7 +28,7 @@
 </header>
 <main>
 <nav class="crumb" aria-label="તમે અહીં છો"><a href="/">જાણકાર</a> › <span>કોપીરાઇટ નીતિ (DMCA)</span></nav><h1>કોપીરાઇટ નીતિ (DMCA)</h1><p class="lead">અમલ તારીખ: 25/11/26</p>
-<article class="box info"><section><h2>અમારું લખાણ</h2><p>જાણકાર નું લખાણ અમે સરકારી માહિતી વાંચીને અમારા શબ્દોમાં લખીએ છીએ. બીજી એપ કે વેબસાઇટનું લખાણ કે ફોટા નકલ કરતા નથી. સરકારી સાઇટની ફક્ત લિંક આપીએ છીએ.</p></section><section><h2>લોગો અને નામ</h2><p>સરકારી યોજના કે સંસ્થાનાં નામ અને લોગો ફક્ત ઓળખ માટે છે. તેના હક્ક તેના માલિકના છે.</p></section><section><h2>તમારા હક્કનું કંઈ દેખાય તો</h2><p>એપમાં તમારું લખાણ, ફોટો કે બીજી કોપીરાઇટવાળી વસ્તુ પરવાનગી વગર દેખાય તો અમને જણાવો. સાથે લખો:</p><ul><li>તમારું નામ અને સંપર્ક.</li><li>એપમાં કયું પેજ કે કાર્ડ (લિંક).</li><li>તમારી મૂળ વસ્તુની લિંક કે પુરાવો.</li><li>તમે હક્કના માલિક કે તેમના વતી છો તેની નોંધ.</li></ul></section><section><h2>અમે શું કરીશું</h2><p>ફરિયાદ મળ્યા પછી 7 દિવસમાં ચકાસીને, સાચી હોય તો તે વસ્તુ એપમાંથી કાઢી નાખીશું.</p></section><section><h2>સંપર્ક</h2><p>વોટ્સએપ <a href="https://wa.me/917777919128">7777919128</a> · ઈમેલ <a href="mailto:krupadigitalhub@gmail.com">krupadigitalhub@gmail.com</a></p></section></article>
+<article class="box info"><section><h2>અમારું લખાણ</h2><p>જાણકાર નું લખાણ અમે સરકારી માહિતી વાંચીને અમારા શબ્દોમાં લખીએ છીએ. બીજી એપ કે વેબસાઇટનું લખાણ કે ફોટા નકલ કરતા નથી. સરકારી સાઇટની ફક્ત લિંક આપીએ છીએ.</p></section><section><h2>લોગો અને નામ</h2><p>સરકારી યોજના કે સંસ્થાનાં નામ અને લોગો ફક્ત ઓળખ માટે છે. તેના હક્ક તેના માલિકના છે.</p></section><section><h2>તમારા હક્કનું કંઈ દેખાય તો</h2><p>એપમાં તમારું લખાણ, ફોટો કે બીજી કોપીરાઇટવાળી વસ્તુ પરવાનગી વગર દેખાય તો અમને જણાવો. સાથે લખો:</p><ul><li>તમારું નામ અને સંપર્ક.</li><li>એપમાં કયું પેજ કે કાર્ડ (લિંક).</li><li>તમારી મૂળ વસ્તુની લિંક કે પુરાવો.</li><li>તમે હક્કના માલિક કે તેમના વતી છો તેની નોંધ.</li></ul></section><section><h2>અમે શું કરીશું</h2><p>ફરિયાદ મળ્યા પછી 7 દિવસમાં ચકાસીને, સાચી હોય તો તે વસ્તુ એપમાંથી કાઢી નાખીશું.</p></section><section><h2>સંપર્ક</h2><p>ઈમેલ <a href="mailto:krupadigitalhub@gmail.com">krupadigitalhub@gmail.com</a></p></section></article>
 </main>
 <footer class="foot">
   <nav aria-label="માહિતી"><a href="/yojana/">યોજના</a><a href="/dastavej/">દસ્તાવેજ</a><a href="/prasang/">જીવનના પ્રસંગ</a><a href="/about.html">અમારા વિશે</a><a href="/privacy.html">ગોપનીયતા નીતિ</a><a href="/terms.html">નિયમો અને શરતો</a><a href="/disclaimer.html">ડિસ્ક્લેમર</a><a href="/dmca.html">કોપીરાઇટ નીતિ (DMCA)</a><a href="/#/contact">સંપર્ક</a></nav>

diff --git a/css/app.css b/css/app.css
@@ -1046,6 +1046,38 @@ a.ev-body:hover b { text-decoration: underline; }
 .ev-body .muted { font-size: .9rem; }
 .ev-open { display: inline-flex; align-items: center; gap: .15rem; font-size: .8rem; font-weight: 700; color: var(--primary); }
 
+/* પ્રસંગ પેજ (યુઝર 26/11/26): ડાબે કામનું ✓ લિસ્ટ, જમણે સહાય (લીલું) + ભૂલ / સૂચન; ફોનમાં ઉપર-નીચે */
+.ev-grid { display: grid; gap: 1rem; margin-top: 1.5rem; align-items: start; }
+@media (min-width: 1024px) { .ev-grid { grid-template-columns: minmax(0, 1.25fr) minmax(0, 1fr); gap: 1.5rem; } }
+.ev-side { display: grid; gap: 1rem; min-width: 0; }
+@media (min-width: 1024px) { .ev-side { position: sticky; top: 4.5rem; } }
+.ev-box { padding: 0; overflow: hidden; }
+.ev-h { display: flex; align-items: center; gap: .65rem; padding: .85rem 1rem; font-size: 1.08rem; font-weight: 800; border-bottom: 1px solid var(--line); }
+.ev-h > span:nth-child(2) { display: grid; flex: 1; min-width: 0; line-height: 1.3; }
+.ev-h small { font-size: .8rem; font-weight: 500; color: var(--muted); }
+.ev-h .sq { display: grid; place-items: center; width: 2.25rem; height: 2.25rem; border-radius: .6rem; flex: none; }
+.ev-tasks .ev-h { background: var(--primary-soft); }
+.ev-tasks .ev-h .sq { background: var(--primary); color: var(--on-primary); }
+.ev-helps .ev-h { background: var(--ok-soft); }
+.ev-helps .ev-h .sq { background: var(--ok); color: #fff; }
+.ev-prog { flex: none; padding: .2rem .6rem; border-radius: 999px; background: var(--surface); border: 1px solid var(--line); font-size: .8rem; font-weight: 700; color: var(--muted); white-space: nowrap; }
+.ev-tasks .ev-list { display: block; padding: .25rem 0; }
+.ev-tasks .ev-item { border: 0; border-radius: 0; background: none; padding: .1rem .75rem .1rem .25rem; }
+.ev-tasks .ev-item + .ev-item { border-top: 1px dashed var(--line); }
+.ev-tasks .ev-item.done { background: var(--ok-soft); }
+.ev-tasks .ev-item.done .ev-body b { text-decoration: line-through; text-decoration-thickness: 1px; color: var(--muted); }
+.ev-n { flex: none; width: 1.4rem; font-size: .85rem; font-weight: 800; color: var(--muted); text-align: center; }
+.ev-hlist { list-style: none; margin: 0; padding: .5rem; display: grid; gap: .5rem; }
+.ev-help { display: flex; align-items: center; gap: .75rem; padding: .6rem .7rem; border-radius: .8rem; border: 1px solid var(--line); background: var(--surface); color: var(--ink); text-decoration: none; min-height: 3.5rem; }
+a.ev-help:hover { border-color: var(--ok); }
+a.ev-help:hover b { color: var(--ok); }
+.eh-tile { display: grid; place-items: center; width: 2.6rem; height: 2.6rem; border-radius: .7rem; flex: none; background: var(--ok); color: #fff; }
+.eh-text { display: grid; gap: .1rem; flex: 1; min-width: 0; }
+.eh-text b { font-weight: 700; line-height: 1.35; overflow-wrap: anywhere; }
+.eh-text .muted { font-size: .85rem; line-height: 1.4; display: -webkit-box; -webkit-line-clamp: 1; -webkit-box-orient: vertical; overflow: hidden; }
+.eh-amt { flex: none; padding: .15rem .5rem; border-radius: 999px; background: var(--ok-soft); color: var(--ok); font-size: .8rem; font-weight: 800; white-space: nowrap; }
+.ev-help .chev { flex: none; color: var(--muted); }
+
 /* જરૂરી ફોન નંબર: કાર્ડ → વિગત, "ફોન કરો" સીધો */
 .hcard { position: relative; }
 .hcard .tcard { height: 100%; padding-bottom: 2.9rem; }

diff --git a/js/wa.js b/js/wa.js
@@ -51,14 +51,34 @@ export function waIntent(href, app = 'auto') {
   return `intent://send${q ? `?${q}` : ''}#Intent;scheme=whatsapp;${PACKAGES[app] ? `package=${PACKAGES[app]};` : ''}S.browser_fallback_url=${encodeURIComponent(href)};end`;
 }
 
-/** આખા પેજ પર: Android માં દરેક wa.me લિંક intent થી ખૂલે. */
+// યુઝર 26/11/26: કમ્પ્યુટરના વોટ્સએપમાં (Windows) લિંકથી આવેલા સંદેશમાં ✅ 📄 💰 જેવાં ચિહ્ન "?" થઈ જાય.
+// ફોનમાં બરાબર દેખાય, એટલે ફક્ત કમ્પ્યુટર પરથી મોકલતી વખતે સંદેશમાંથી ચિહ્ન કાઢી નાખવાં.
+const isPhone = () => isAndroid() || /iPhone|iPad|iPod/i.test(navigator.userAgent || '');
+export const plainText = (t) =>
+  String(t)
+    .replace(/[\p{Extended_Pictographic}\u{1F1E6}-\u{1F1FF}\u{1F3FB}-\u{1F3FF}\uFE0F\u200D\u20E3]/gu, '')
+    .replace(/^[ \t]+/gm, '')
+    .replace(/^\*[ \t]+/gm, '*');
+export function desktopWaHref(href) {
+  const l = parseWa(href);
+  if (!l || !l.text || !/\p{Extended_Pictographic}/u.test(l.text)) return null;
+  return `https://wa.me/${l.phone}?text=${encodeURIComponent(plainText(l.text))}`;
+}
+
+/** આખા પેજ પર: Android માં દરેક wa.me લિંક intent થી ખૂલે; કમ્પ્યુટર પર સંદેશમાંથી ચિહ્ન કાઢે. */
 export function installWaPicker() {
   document.addEventListener(
     'click',
     (e) => {
       if (e.defaultPrevented || e.button !== 0 || e.ctrlKey || e.metaKey || e.shiftKey || e.altKey) return;
       const a = e.target.closest && e.target.closest('a[href]');
-      if (!a || !parseWa(a.href) || !isAndroid()) return;
+      if (!a || !parseWa(a.href)) return;
+      if (!isPhone()) {
+        const h = desktopWaHref(a.href);
+        if (h) a.href = h;
+        return;
+      }
+      if (!isAndroid()) return;
       const intent = waIntent(a.href, readWaApp());
       if (!intent) return;
       e.preventDefault();

diff --git a/js/config.js b/js/config.js
@@ -2,7 +2,7 @@
 export const APP = {
   name: 'જાણકાર',
   // દરેક નવા પ્રકાશન વખતે વધારવું (ફક્ત નોંધ માટે, એપમાં દેખાતું નથી).
-  version: '0.15.1',
+  version: '0.16.0',
   // એપ શું છે તેની એક સાદી લીટી (સ્વાગત પેજ અને વોટ્સએપથી એપ મોકલો ત્યારે).
   about: 'યોજના, સહાય અને દાખલાની માહિતી, ગુજરાતીમાં.',
   // KruPa ની બીજી બે એપ (હોમ પર "અમારી બીજી એપ", ફૂટર, મેનુમાં "ઓપરેટર માટે")
@@ -21,7 +21,8 @@ export const APP = {
   reminderDays: 7,
   // સંપર્ક: ભરશો એટલે એપમાં "ભૂલ જણાવો" અને "સંપર્ક" બટન દેખાશે.
   // email: 'name@example.com'   whatsapp: દેશના કોડ સાથે, જગ્યા વગર, જેમ કે '919876543210'
-  contact: { email: 'krupadigitalhub@gmail.com', whatsapp: '917777919128' },
+  // યુઝર 26/11/26: વોટ્સએપ નંબર કાઢ્યો (ફોન / મેસેજ વધી જાય). ફક્ત ઈમેલ + એપમાંનું "ભૂલ / સૂચન" ફોર્મ. પાછો જોઈએ તો અહીં નંબર મૂકો.
+  contact: { email: 'krupadigitalhub@gmail.com', whatsapp: '' },
   // વપરાશનો રિપોર્ટ (યુઝર 25/11/26): Google Analytics 4 નું Measurement ID ('G-XXXXXXXXXX') અહીં મૂકો એટલે ચાલુ.
   // ખાલી = બંધ. ચાલુ થાય એટલે ગોપનીયતા નીતિમાં એની વાત આપોઆપ આવે (pages.js); Play Console ની Data safety પણ બદલવી (store/listing.md).
   // ફક્ત લાઇવ સાઇટ (jankar.krupadigitalhub.in) પર ગણાય, ટેસ્ટમાં નહીં.

diff --git a/sw.js b/sw.js
@@ -1,6 +1,6 @@
 // ઑફલાઇન: એપ ફોનમાં સેવ રહે, અને છેલ્લી ડાઉનલોડ થયેલી માહિતી નેટ વગર પણ દેખાય.
 // કોડ બદલો ત્યારે VERSION વધારવું, એટલે યુઝર્સના ફોનમાં નવું વર્ઝન આવે.
-const VERSION = 'v24';
+const VERSION = 'v25';
 const SHELL = `shell-${VERSION}`;
 const DATA = 'data';
 

diff --git a/PROGRESS.md b/PROGRESS.md
@@ -1,5 +1,16 @@
 # જાણકાર — કામ ક્યાં પહોંચ્યું (નવું ઉપર)
 
+## 26/11/26 (2) — v0.16.0: વોટ્સએપ નંબર કાઢ્યો, PC શેરમાં "?" નહીં, કાર્ડ પર ફક્ત નામ, પ્રસંગ પેજ નવું, Play Store ફોટા ઇમેજ સાથે
+- યુઝર: વોટ્સએપ નંબર રાખવો? (ફોન વધી જાય); આઇકન / ટૅગલાઇન / અપલોડનું બધું બરાબર કરો; PC પરથી વોટ્સએપ શેરમાં ચિહ્નને બદલે "?"; કાર્ડ નીચે ફક્ત નામ; આજે શું નવું કામનું?; એક પેજથી બીજા પેજ પર જઈએ તો Analytics / જાહેરાતમાં ગણાય?; પ્રસંગ પેજમાં કામ અને સહાય સરખાં લાગે, ભૂલ / સૂચન બરાબર નથી; Play Store કેટલું નજીક?
+- 📵 `config.js` → `contact.whatsapp: ''`: સંપર્ક / અમારા વિશે / નિયમોનાં પેજ પર ફક્ત ઈમેલ + એપમાંનું ફોર્મ. `store/listing.md` (Phone ખાલી, ડેટા કાઢવો = ઈમેલથી), `store/README.md`. વોટ્સએપ ચેનલ અને શેર બટન એમ જ.
+- 💻 `js/wa.js`: કમ્પ્યુટર પરથી wa.me લિંક દબાવો ત્યારે સંદેશમાંથી ✅ 📄 💰 📅 📱 કાઢે (Windows વોટ્સએપમાં "?" થતાં). ફોનમાં ચિહ્ન એમ જ.
+- 🃏 યોજના / દસ્તાવેજ / પ્રસંગનાં કાર્ડ: ફોટા નીચે ફક્ત નામ + › (એક લીટીની વિગત કાઢી). ફોન નંબરનાં કાર્ડ એમ જ.
+- 🤰 પ્રસંગ પેજ: ડાબે "કરવાનાં કામ / દસ્તાવેજ" એક ખાનામાં 1-2-3 + ☐ + "x / y થઈ ગયાં"; જમણે "મળી શકે એવી સહાય" લીલું ખાનું = લીલું tile + નામ + એક લીટી + ₹ + › (☐ નહીં); નીચે "કંઈ ખોટું કે ખૂટતું લાગ્યું?" + "ભૂલ / સૂચન જણાવો" (યોજના પેજ જેવું). ફોનમાં ઉપર-નીચે. પ્રગતિ ફક્ત કામની.
+- 🔔 આજે શું નવું: ફક્ત છેલ્લા 30 દિવસની પોસ્ટ; એકેય ન હોય તો ઉપરનું 🔔 છુપાય. Digital Hub માંથી નવી પોસ્ટ આવે એટલે આપોઆપ દેખાય.
+- 🖼 Play Store ફોટા (`store-images`) હવે Digital Hub ની ઇમેજ સાથે (environment માં ફોટાની સાઇટ ખોલી). આઇકન / feature graphic યુઝરનાં જ — બરાબર, બદલ્યાં નથી.
+- `sw.js` v25, `build-pages` (નિયમોનાં પેજમાંથી નંબર ગયો).
+- ટેસ્ટ: 360 / 390 (Android) / 1366 / 1920 × 12 પેજ આડું સ્ક્રોલ 0, JS ભૂલ 0; કાર્ડમાં લીટી 0; સંપર્ક / અમારા વિશે માં નંબર નહીં; પ્રસંગ: સહાય પર ☐ નહીં, ☐ ટેપ → "1 / 3"; કમ્પ્યુટરની વોટ્સએપ લિંકમાં ચિહ્ન નહીં; `check-data` 0 ભૂલ — PASS.
+
 ## 26/11/26 — Play Console: ઓળખ મંજૂર, ફોન નંબર ચકાસ્યો
 - યુઝર: "Verify your contact phone number" → Contact details માં +91 નંબર, "Send me a text" → કોડ → ચકાસ્યો ✓. Contact name ફક્ત Google ના સંપર્ક માટે (જાહેર નહીં), ઓળખ સાથે સંબંધ નથી — બદલ્યું નહીં.
 - આગળ (યુઝર): PWABuilder (`store/README.md` પગલું 3).

diff --git a/store/listing.md b/store/listing.md
@@ -57,7 +57,7 @@ https://www.india.gov.in
 | App category | Education |
 | Tags | Education, Reference |
 | Contact email | krupadigitalhub@gmail.com (Play Store પર જાહેર દેખાશે) |
-| Phone (વૈકલ્પિક) | +91 7777919128 |
+| Phone (વૈકલ્પિક) | ખાલી રાખો (યુઝર 26/11/26: નંબર જાહેર નહીં) |
 | Privacy policy | `https://jankar.krupadigitalhub.in/privacy.html` (સાચું પેજ, 25/11/26 થી; એપમાં પણ એ જ લખાણ) |
 | Ads | No, my app does not contain ads |
 | Target audience | 18 and over |
@@ -74,7 +74,7 @@ https://www.india.gov.in
 |---|---|
 | Does your app collect or share any of the required user data types? | **Yes** |
 | Is all of the user data collected by your app encrypted in transit? | Yes |
-| Do you provide a way for users to request that their data is deleted? | Yes (ગોપનીયતા નીતિમાં: ઈમેલ / વોટ્સએપથી, 7 દિવસમાં) |
+| Do you provide a way for users to request that their data is deleted? | Yes (ગોપનીયતા નીતિમાં: ઈમેલથી, 7 દિવસમાં) |
 
 **Data types: આ પાંચ જ ✓ કરો, બાકી બધું ખાલી**
 
